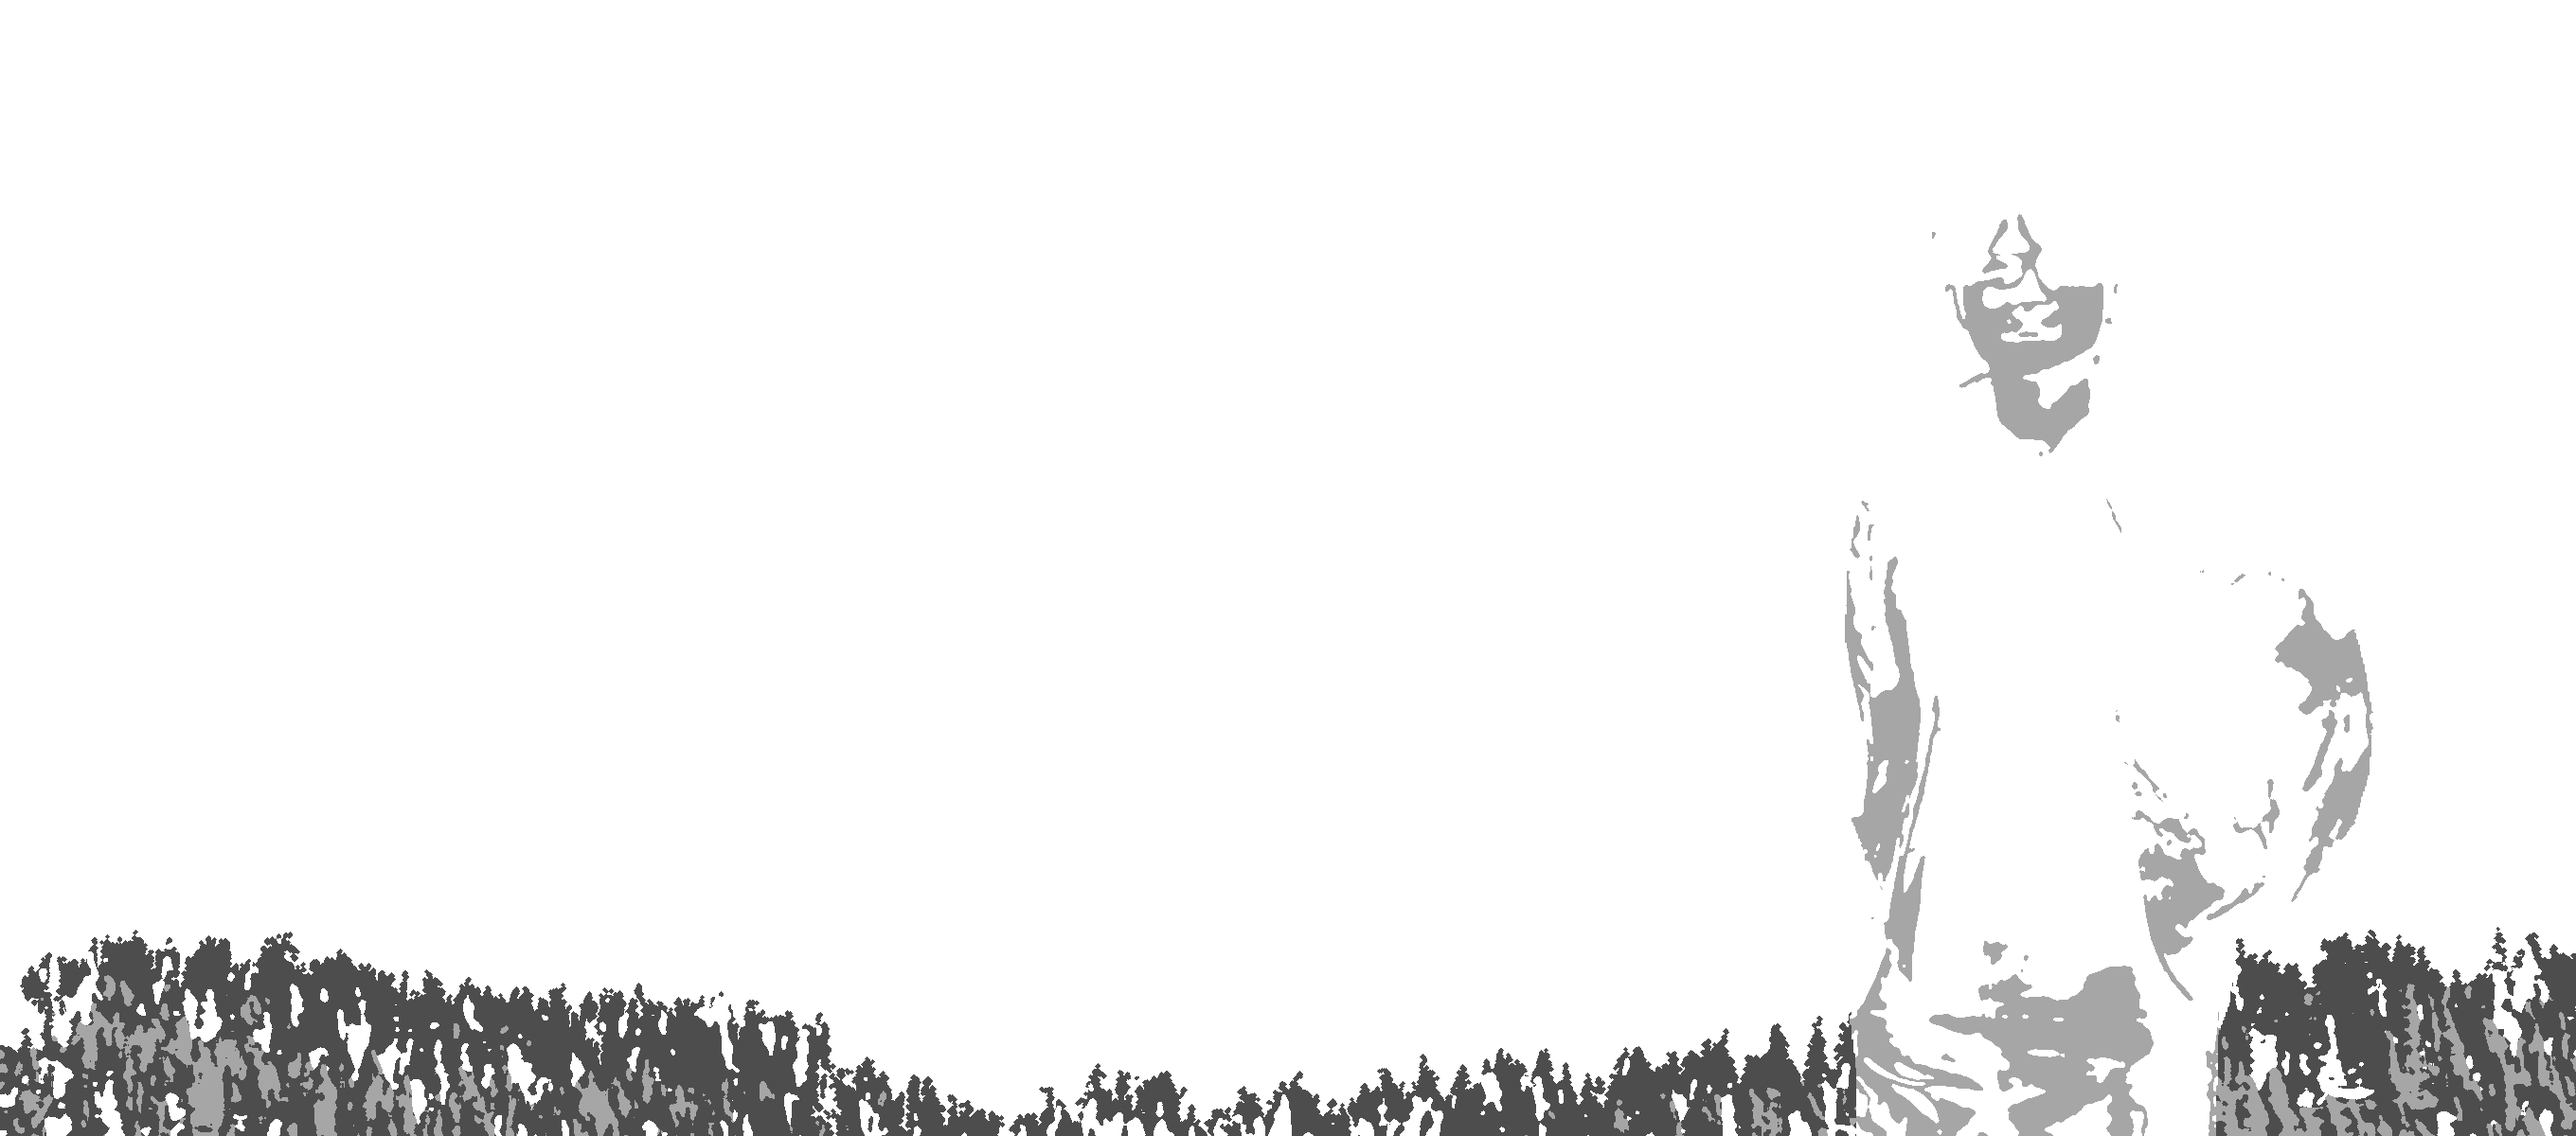
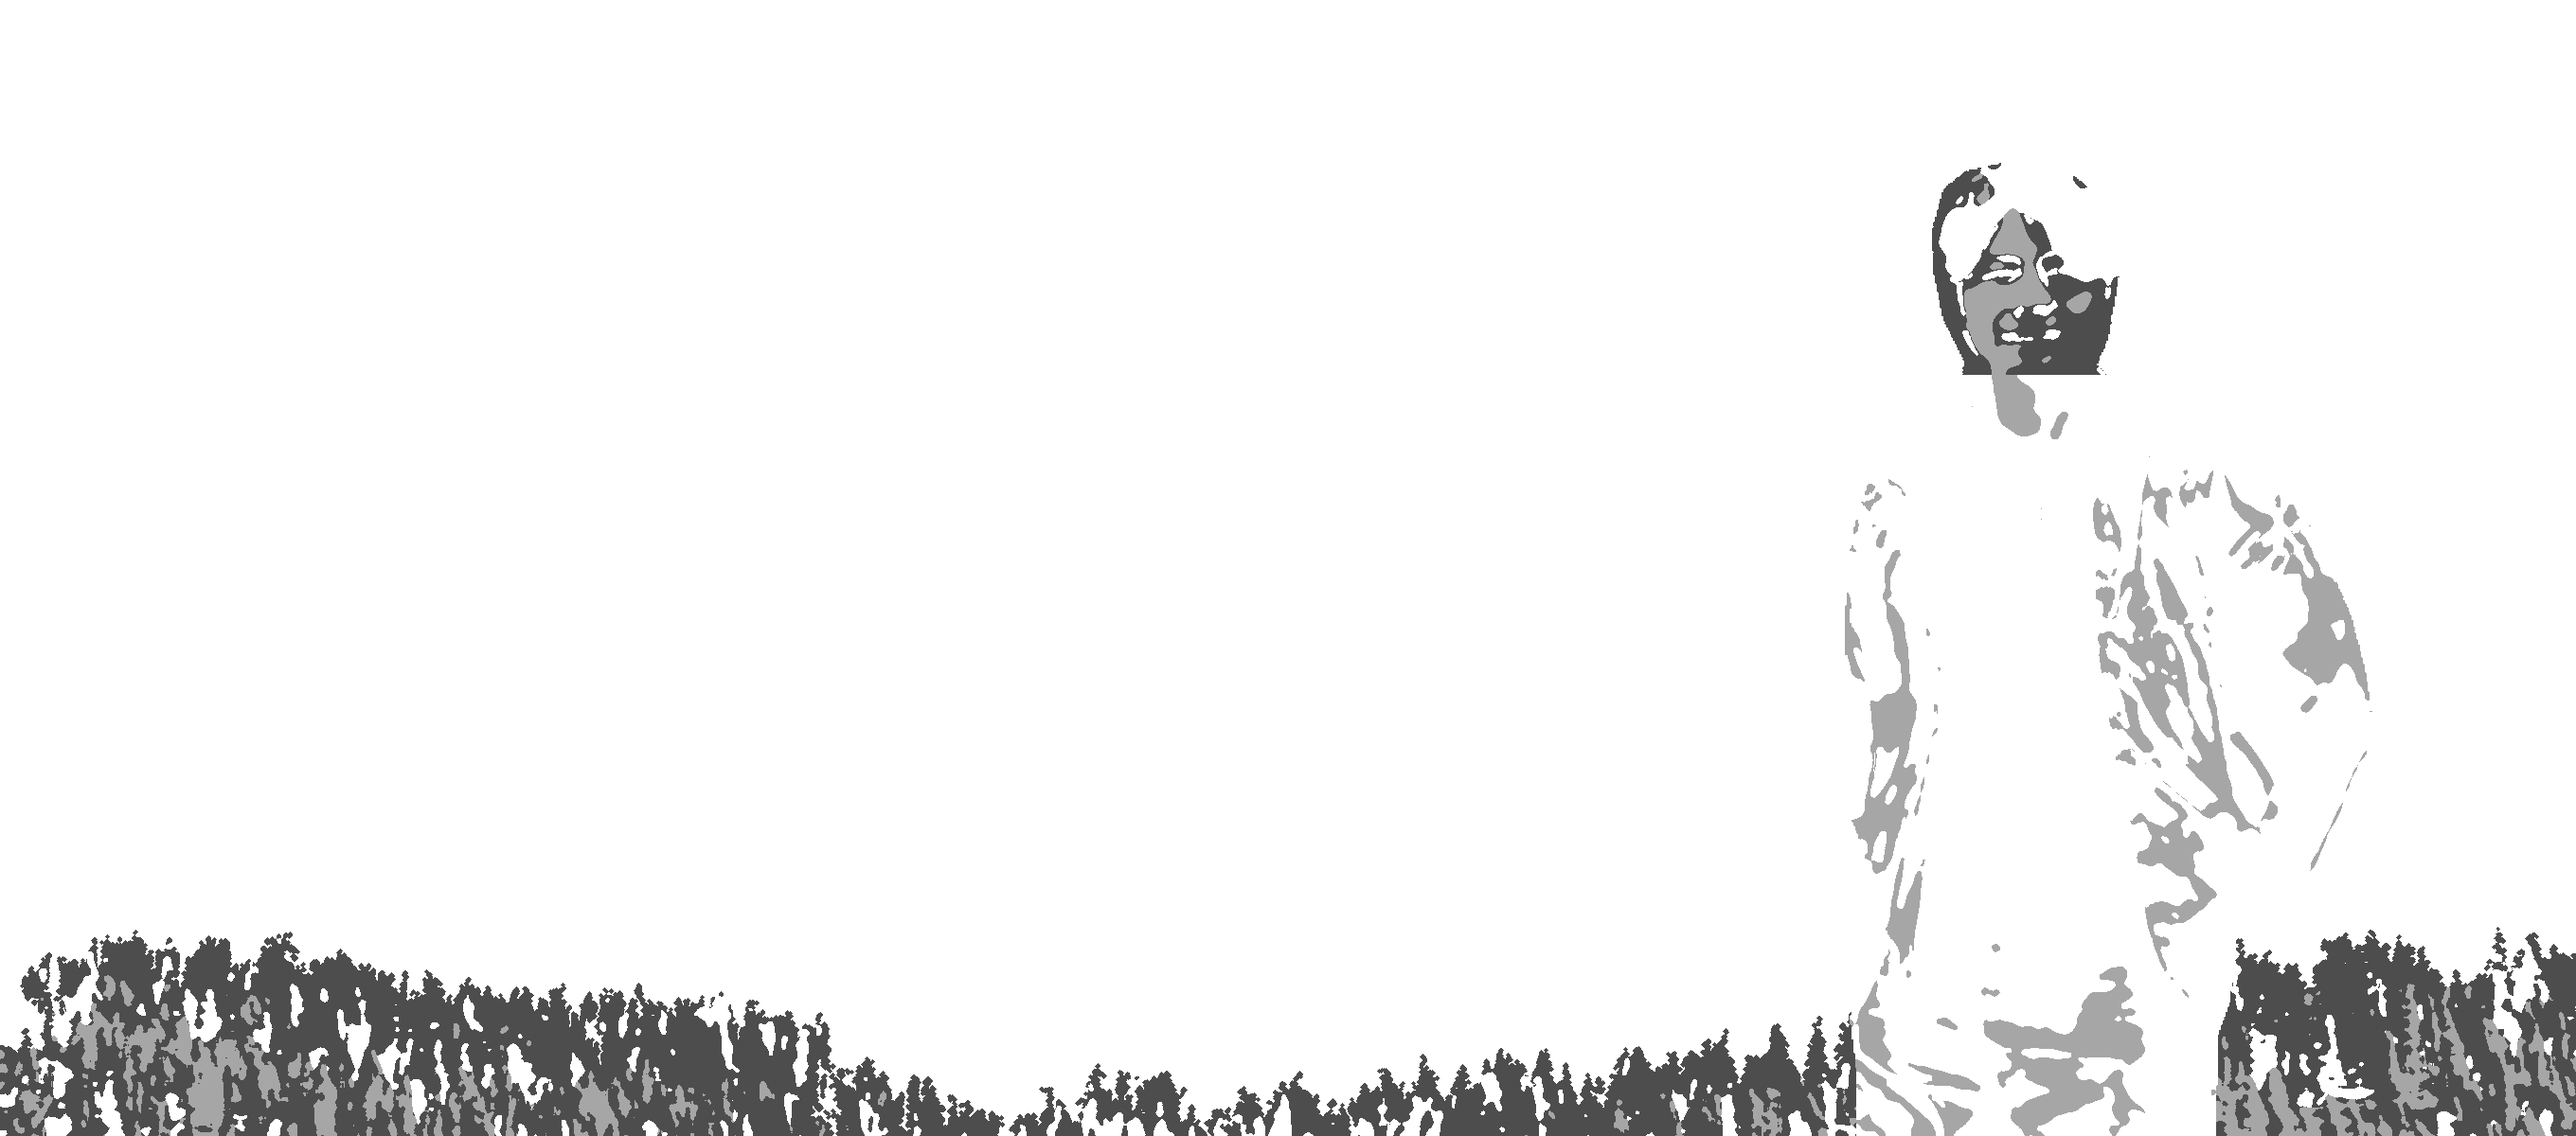
Four-ink landscape: draw the head separately
The head (above the neck, found from the matte's width profile) gets its
own treatment: hair as the largest dark, neutral region, solid dark; skin
split at its Otsu threshold into two flat tones; facial features from an
adaptive local threshold, printed solid dark after the clean-up so they
survive. Drops the heaviest vermilion-over-yellow swatch from the body.

Claude-Session: https://claude.ai/code/session_01AwCbWbsfmMjfusHVwzczHG

diff --git a/design/photo/home_landscape_4c.py b/design/photo/home_landscape_4c.py
@@ -12,7 +12,8 @@ the region's colours come from a small, fixed overprint palette:
   clouds  paper
   rock    blue tints, dark only in the deepest shadow   -> a cool blue mountain
   forest  blue over yellow                              -> green
-  person  vermilion over yellow for skin and jacket, dark for hair and shirt, blue plaid
+  person  vermilion over yellow for skin and jacket, dark for hair and shirt, blue plaid;
+          the head separately: solid dark hair, dark features, skin in two flat tones
 (the swatch lists are SWATCHES below)
 
 The photo supplies only shapes and light/dark: each region is reduced to a few colours
@@ -107,7 +108,8 @@ m = np.zeros((BH, W, 4), np.float32)
 SWATCHES = {
     'rock':   ['paper', 'b35', 'b70', 'b100', 'b100+d35'],
     'forest': ['b35+c35', 'b35+c70', 'b70+c70', 'b100+c35', 'b100+d70'],
-    'person': ['paper', 'c35', 'a35+c35', 'a35+c70', 'a70+c70', 'a70+d35', 'b70', 'd70', 'd100'],
+    'person': ['paper', 'c35', 'a35+c35', 'a35+c70', 'a70+d35', 'b70', 'd70', 'd100'],
+    'head':   ['d100', 'd100', 'a35+c70', 'a35+c35'],             # hair, features (solid, so small shapes stay crisp), skin shadow, skin light
 }
 for name, mask, n, mode in [('rock', rock, 6, 9), ('forest', forest, 5, 7)]:
     labels, dens = to_swatches(shaped, mask, SWATCHES[name], n, seed=len(name))
@@ -129,9 +131,45 @@ person = np.asarray(cut, np.float32) / 255
 alpha = person[..., 3]; inside = alpha > .5
 plab = color.rgb2lab(person[..., :3]); plab[..., 0] = exposure.equalize_adapthist(plab[..., 0] / 100, clip_limit=.015) * 100
 prgb = smooth_rgb(np.clip(color.lab2rgb(plab), 0, 1))
-labels, dens = to_swatches(prgb, inside, SWATCHES['person'], 8, seed=7)
-labels = flatten(labels, inside, 5)
-pd = np.zeros((ph, pw, 4), np.float32); place(dens, labels, inside, pd)
+# Head and body are drawn separately. The head ends at the neck: the narrowest row of
+# the matte below its top (scipy.signal.find_peaks on the smoothed width profile).
+from scipy.signal import find_peaks
+width = ndimage.uniform_filter1d(inside.sum(1).astype(float), max(3, ph // 70))
+crown = int(np.nonzero(width)[0][0]); search = width[crown:crown + ph // 2]
+neck = crown + int(find_peaks(-search, prominence=search.max() * .05)[0][0]) + ph // 80
+head = inside & (np.arange(ph)[:, None] < neck); body = inside & ~head
+
+pd = np.zeros((ph, pw, 4), np.float32)
+labels, dens = to_swatches(prgb, body, SWATCHES['person'], 8, seed=7)
+place(dens, flatten(labels, body, 9), body, pd)
+
+# Head: few, large shapes. Hair is the largest dark, neutral region of the head with its
+# highlights closed in (scikit-image morphology): solid dark. The face is the rest:
+# its locally dark marks (brows, eyes, nostrils, mouth) print solid dark, and the
+# skin splits into light and shadow at its Otsu threshold.
+from skimage.filters import threshold_otsu
+hrgb = np.clip(restoration.denoise_tv_chambolle(person[..., :3], weight=.1, channel_axis=-1), 0, 1)
+hlab = color.rgb2lab(hrgb); hL = hlab[..., 0]; hC = np.hypot(hlab[..., 1], hlab[..., 2])
+dark = head & (hL < 40) & (hC < 16)          # hair is dark and neutral; face shadows are dark but warm
+dark = morphology.remove_small_holes(morphology.closing(dark, morphology.disk(max(2, ph // 160))), (ph // 25) ** 2)
+lbl = measure.label(dark)
+hair = lbl == (max(measure.regionprops(lbl), key=lambda r: r.area).label if lbl.max() else -1)
+face = head & ~hair
+fL = hL[face]
+from skimage.filters import threshold_local
+# Features are locally dark (brows, eyes, nostrils, mouth): an adaptive threshold finds them
+# relative to the skin around them, not to the whole face.
+block = (ph // 24) | 1
+features = face & (hL < threshold_local(hL, block, offset=6)) & (hL < np.percentile(fL, 45))
+features = morphology.remove_small_objects(morphology.erosion(features, morphology.disk(1)), max(4, (ph // 300) ** 2))
+skin_cut = threshold_otsu(fL[fL >= np.percentile(fL, 13)])
+HEAD = SWATCHES['head']   # hair, features, skin shadow, skin light
+hl = np.full(head.shape, -1, np.int32)
+hl[hair] = 0; hl[face] = np.where(hL[face] < skin_cut, 2, 3)
+hdens = np.array([swatch(sp) for sp in HEAD])
+hl = flatten(hl, head, 7)
+hl[morphology.binary_dilation(features, morphology.disk(1)) & face] = 1          # features go on after the clean-up, so the mode filter cannot erase them
+place(hdens, hl, head, pd)
 # Hard edge, as a cut plate: the matte is thresholded, not blended.
 x0, x1 = max(px, 0), min(px + pw, W); sx = x0 - px
 sub = plates[py:py + ph, x0:x1]; a = inside[:, sx:sx + x1 - x0, None]
